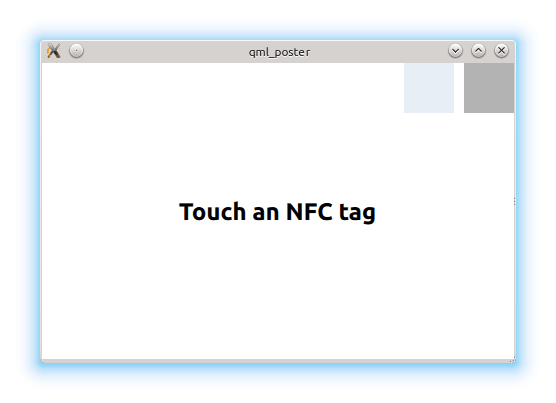
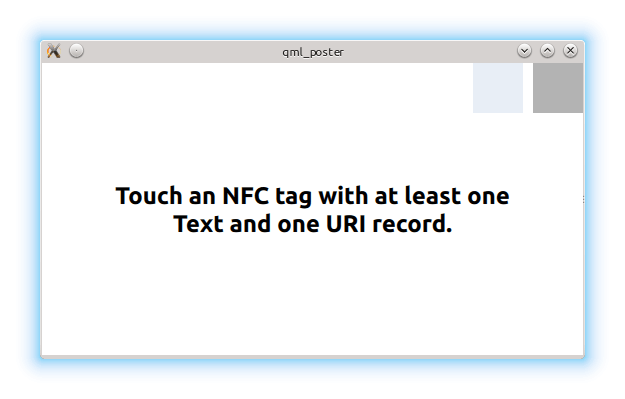
Make it more obvious what tags the NFC poster example expects.
Task-number: QTBUG-53616

diff --git a/qtconnectivity/examples/nfc/poster/poster.qml b/qtconnectivity/examples/nfc/poster/poster.qml
@@ -62,13 +62,18 @@ Rectangle {
             }
         }
 
+        //! [QML NDEF filtering]
         filter: [
             NdefFilter { type: "U"; typeNameFormat: NdefRecord.NfcRtd; maximum: 1 },
             NdefFilter { type: "T"; typeNameFormat: NdefRecord.NfcRtd },
             NdefFilter { typeNameFormat: NdefRecord.Mime; minimum: 0; maximum: 1 }
         ]
 
+        //! [QML NDEF filtering]
+
+        //! [messageRecordsChanged 1]
         onMessageRecordsChanged: {
+        //! [messageRecordsChanged 1]
             posterText.text = "";
             posterImage.source = "";
             posterUrl.text = "";
@@ -76,6 +81,7 @@ Rectangle {
             var currentLocaleMatch = NdefTextRecord.LocaleMatchedNone;
             var i;
             var found = false;
+        //! [messageRecordsChanged 2]
             for (i = 0; i < messageRecords.length; ++i) {
                 switch (messageRecords[i].typeNameFormat) {
                 case NdefRecord.NfcRtd:
@@ -102,18 +108,24 @@ Rectangle {
                 if (!found)
                     console.warn("Unknown NFC tag detected. Cannot display content.")
             }
+             //! [messageRecordsChanged 2]
 
             root.state = "show";
+        //! [messageRecordsChanged 3]
         }
+        //! [messageRecordsChanged 3]
     }
 
     Text {
         id: touchText
         anchors.horizontalCenter: parent.horizontalCenter
         anchors.verticalCenter: parent.verticalCenter
-        text: "Touch an NFC tag"
+        text: "Touch an NFC tag with at least one Text and one URI record."
         font.bold: true
         font.pointSize: 18
+        wrapMode: Text.WordWrap
+        width: root.width*0.75
+        horizontalAlignment: Text.AlignHCenter
     }
 
     Image {
